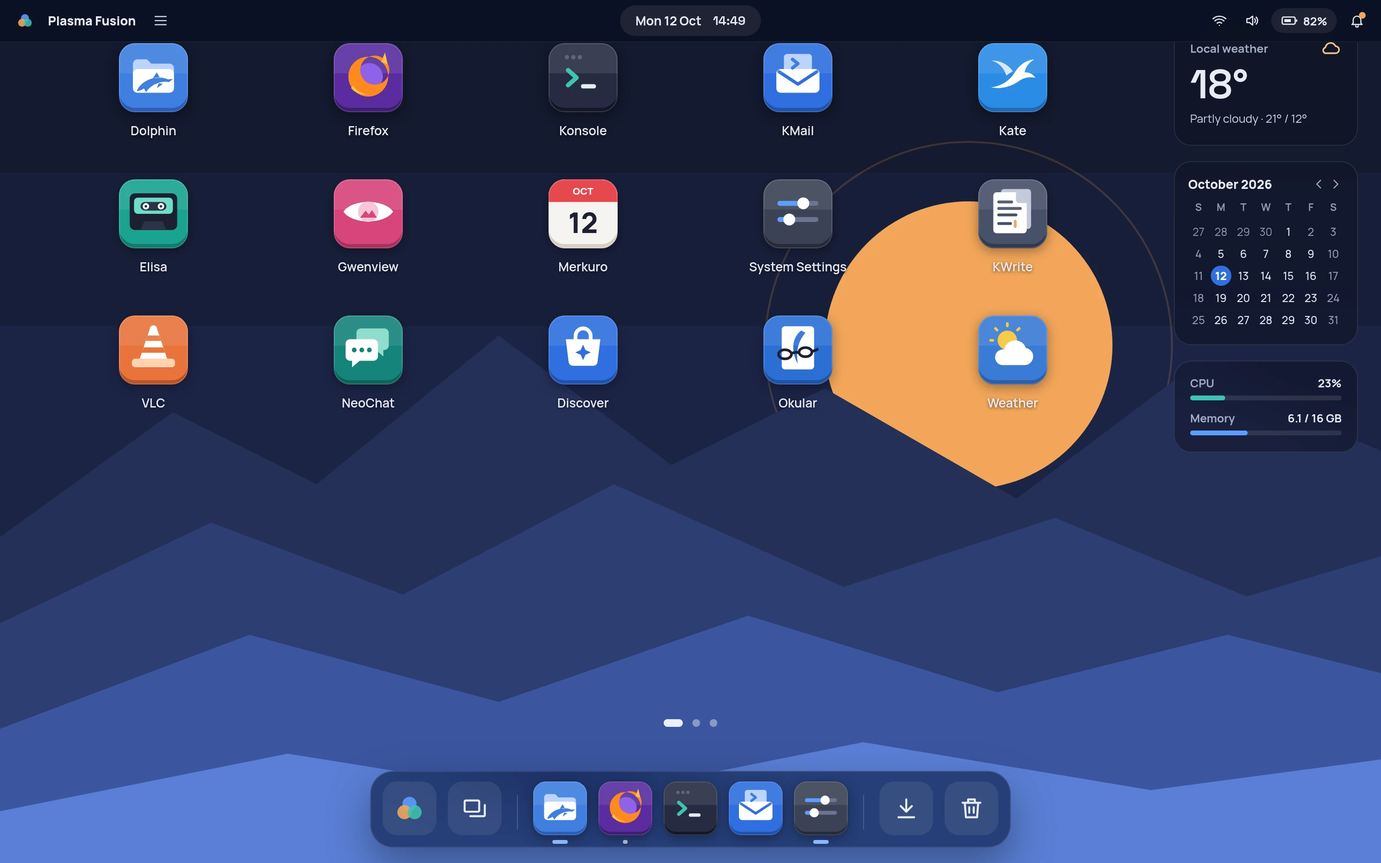
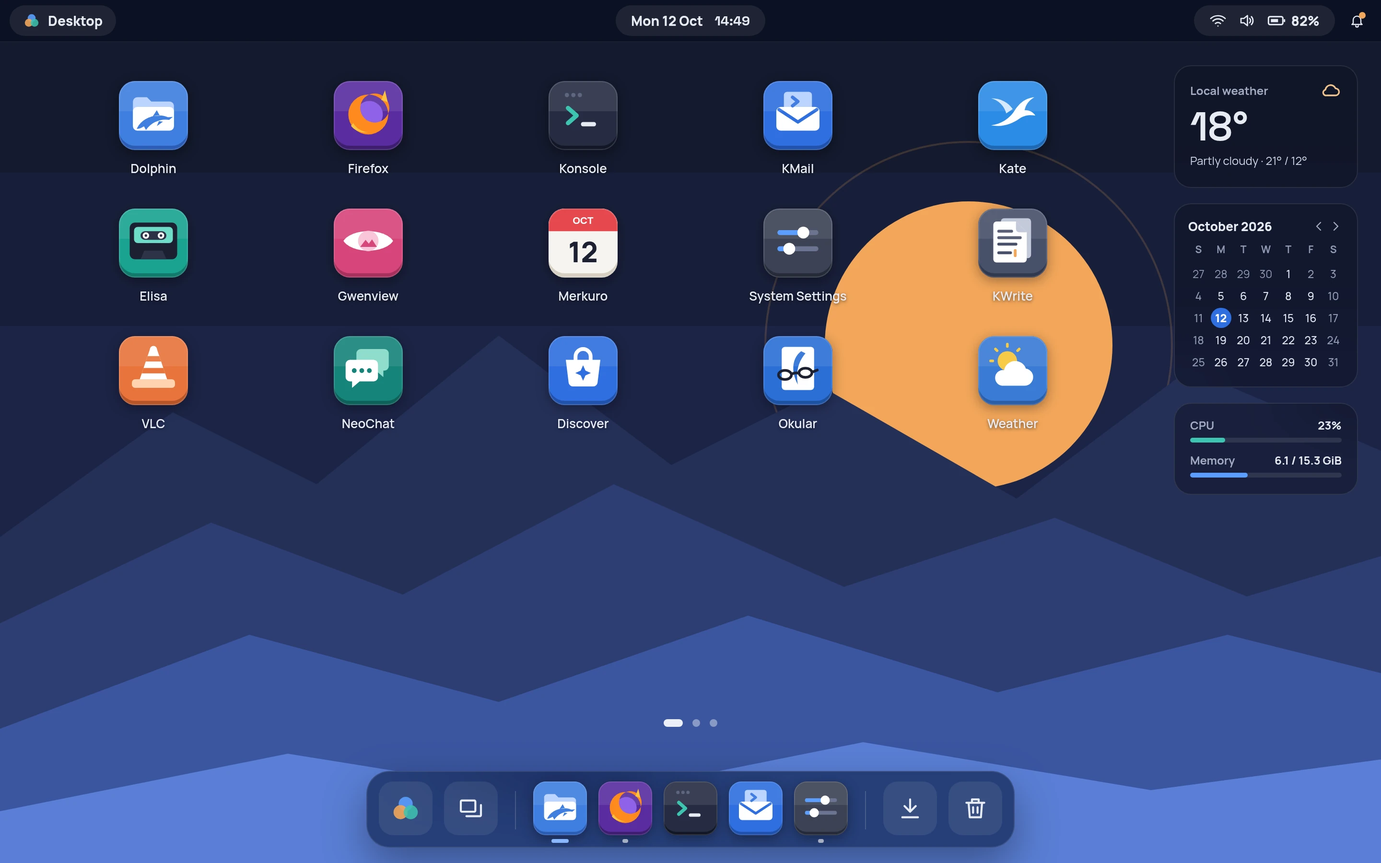
Design: the tablet home's bar, dock and cards follow the implementation
The top bar: one 32 px appname pill (mark 18, the 14 px ExtraBold name,
no separate menu button) at the left, the 14 px/800 clock labels, and
network, volume and battery grouped in one 32 px status pill (18/18/20 px
glyphs, 14 px percent, gap 12), with the bell beside it (TABLET 4.3).

The home content sits below the reserved 44 px top bar (the containment
anchors to availableScreenRect), so the grid and the cards start at 68;
with the 856 px content height the rows are floor(668 / 5) = 133.

The dock: 40 px separators with 6 px sides (sepLength 40, sepSlot 13),
18 x 4 active pills and 6 x 4 running dots 4 px below the icon - and only
Dolphin is active, System Settings is running. The system card shows
binary units (6.1 / 15.3 GiB) like the widget.

Previews re-rendered with design/render/render.py.

diff --git a/design/boards/Tablet.dc.html b/design/boards/Tablet.dc.html
@@ -30,7 +30,7 @@ a{color:#8ab8ff}a:hover{color:#b9d4ff}
 </svg>
 
 <!-- Page 1: the pinned apps (the launcher's list), over the wallpaper -->
-<div aria-label="Home screen, page 1" style="position:absolute;left:48px;top:24px;width:1120px;display:grid;grid-template-columns:repeat(5, minmax(0, 1fr));grid-auto-rows:142px;justify-items:center">
+<div aria-label="Home screen, page 1" style="position:absolute;left:48px;top:68px;width:1120px;display:grid;grid-template-columns:repeat(5, minmax(0, 1fr));grid-auto-rows:133px;justify-items:center">
 
 <div style="display:flex;flex-direction:column;align-items:center;justify-content:center;gap:10px;height:100%">
 <button aria-label="Dolphin" class="tile" style="width:72px;height:72px;border-radius:19px"><svg xmlns="http://www.w3.org/2000/svg" width="72" height="72" viewBox="0 0 64 64"><path d="M15 0h34a15 15 0 0 1 15 15v34a15 15 0 0 1 -15 15h-34a15 15 0 0 1 -15 -15v-34a15 15 0 0 1 15 -15z" fill="#2b5db5"/><path d="M15 0h34a15 15 0 0 1 15 15v30a15 15 0 0 1 -15 15h-34a15 15 0 0 1 -15 -15v-30a15 15 0 0 1 15 -15z" fill="#3f7fe0"/><path d="M15 0h34a15 15 0 0 1 15 15v13H0V15A15 15 0 0 1 15 0z" fill="#ffffff" fill-opacity="0.09"/><path d="M13 19a4 4 0 0 1 4-4h9l4 4h17a4 4 0 0 1 4 4v19H13z" fill="#bcd4ff"/><path fill-rule="evenodd" d="M17 24h30a4 4 0 0 1 4 4v14a4 4 0 0 1 -4 4h-30a4 4 0 0 1 -4 -4v-14a4 4 0 0 1 4 -4z" fill="#ffffff"/><path fill-rule="evenodd" d="M16.5 44.5c3-7 10-11.5 18.5-12.5 4-.4 7.5.3 10.5 1.6l4.5-.4-3.4 2.8c-4.4-.7-9 0-13 2-3.6 1.8-6.5 4.4-8.5 7.4l-1.9-3.4c-2.4 1.5-4.6 2.3-6.7 2.5zM31.5 32.6l3.6-5.6 2.8 5.1zM37 37.2l-1.8 4.6 5.6-4.1z" fill="#3f7fe0"/><path d="M16.5 44.5c3-7 10-11.5 18.5-12.5 4-.4 7.5.3 10.5 1.6l4.5-.4-3.4 2.8c-4.4-.7-9 0-13 2-3.6 1.8-6.5 4.4-8.5 7.4l-1.9-3.4c-2.4 1.5-4.6 2.3-6.7 2.5zM31.5 32.6l3.6-5.6 2.8 5.1zM37 37.2l-1.8 4.6 5.6-4.1z" fill="url(#pf-sheen)" fill-rule="evenodd"/><path d="M15 0.5h34a14.5 14.5 0 0 1 14.5 14.5v34a14.5 14.5 0 0 1 -14.5 14.5h-34a14.5 14.5 0 0 1 -14.5 -14.5v-34a14.5 14.5 0 0 1 14.5 -14.5z" fill="none" stroke="#ffffff" stroke-opacity="0.14" stroke-width="1" stroke-linecap="butt" stroke-linejoin="miter"/></svg></button>
@@ -109,7 +109,7 @@ a{color:#8ab8ff}a:hover{color:#b9d4ff}
 
 </div>
 <!-- The cards on page 1 (the containment's widgets), in the columns the grid leaves -->
-<div style="position:absolute;left:1224px;top:24px;width:192px;display:flex;flex-direction:column;gap:16px">
+<div style="position:absolute;left:1224px;top:68px;width:192px;display:flex;flex-direction:column;gap:16px">
 <div aria-label="Weather widget" style="height:128px;box-sizing:border-box;padding:14px 16px;border-radius:18px;background:rgba(14,18,34,0.52);backdrop-filter:blur(24px);-webkit-backdrop-filter:blur(24px);border:1px solid rgba(255,255,255,0.1);display:flex;flex-direction:column;gap:6px">
 <div style="display:flex;align-items:center;justify-content:space-between">
 <span style="font-size:12px;font-weight:700;color:#a3abc2">Local weather</span>
@@ -145,7 +145,7 @@ a{color:#8ab8ff}a:hover{color:#b9d4ff}
 <div style="height:5px;border-radius:3px;background:rgba(255,255,255,0.1)"><div style="width:23%;height:5px;border-radius:3px;background:#3cc4b0"></div></div>
 </div>
 <div style="display:flex;flex-direction:column;gap:5px">
-<div style="display:flex;justify-content:space-between;font-size:12px"><span style="color:#a3abc2;font-weight:700">Memory</span><span style="font-weight:700">6.1 / 16 GB</span></div>
+<div style="display:flex;justify-content:space-between;font-size:12px"><span style="color:#a3abc2;font-weight:700">Memory</span><span style="font-weight:700">6.1 / 15.3 GiB</span></div>
 <div style="height:5px;border-radius:3px;background:rgba(255,255,255,0.1)"><div style="width:38%;height:5px;border-radius:3px;background:#5b9dff"></div></div>
 </div>
 </div>
@@ -153,21 +153,22 @@ a{color:#8ab8ff}a:hover{color:#b9d4ff}
 
 <!-- Top bar (tablet): avatar, app name and menu; clock; status -->
 <header style="position:absolute;left:0;top:0;width:1440px;height:44px;box-sizing:border-box;padding:0 10px;display:flex;align-items:center;justify-content:space-between;background:rgba(9,12,24,0.58);backdrop-filter:blur(24px) saturate(1.3);-webkit-backdrop-filter:blur(24px) saturate(1.3);border-bottom:1px solid rgba(255,255,255,0.06);font-size:13px">
-<div style="width:470px;display:flex;align-items:center;gap:2px">
-<button aria-label="User" style="width:32px;height:26px;border-radius:8px;display:flex;align-items:center;justify-content:center">
+<div style="width:470px;display:flex;align-items:center">
+<div aria-label="Desktop" style="display:flex;align-items:center;gap:8px;height:32px;padding:0 14px;border-radius:16px;background:rgba(255,255,255,0.08)">
 <svg width="18" height="18" viewBox="0 0 24 24" aria-hidden="true"><circle cx="12" cy="8.5" r="5.5" fill="#5b9dff" fill-opacity="0.9"></circle><circle cx="8" cy="15" r="5.5" fill="#f2a65a" fill-opacity="0.9"></circle><circle cx="16" cy="15" r="5.5" fill="#3cc4b0" fill-opacity="0.85"></circle></svg>
-</button>
-<span style="padding:0 10px 0 6px;font-weight:800">Plasma Fusion</span>
-<button aria-label="Menu" style="width:28px;height:26px;border-radius:8px;display:flex;align-items:center;justify-content:center;color:#cdd3e4"><svg class="i" width="17" height="17" viewBox="0 0 24 24"><path d="M4 6h16M4 12h16M4 18h16"></path></svg></button>
+<span style="font-size:14px;font-weight:800">Desktop</span>
+</div>
 </div>
 <div style="display:flex;align-items:center;gap:12px;height:32px;padding:0 16px;border-radius:16px;background:rgba(255,255,255,0.08)">
-<span style="font-weight:700">Mon 12 Oct</span>
-<span style="font-family:'Space Grotesk',sans-serif;font-weight:600">14:49</span>
+<span style="font-size:14px;font-weight:800">Mon 12 Oct</span>
+<span style="font-family:'Space Grotesk',sans-serif;font-size:14px;font-weight:800">14:49</span>
 </div>
-<div style="width:470px;display:flex;align-items:center;justify-content:flex-end;gap:6px;color:#e8ebf4">
-<button aria-label="Network connected" style="width:28px;height:26px;display:flex;align-items:center;justify-content:center"><svg class="i" width="16" height="16" viewBox="0 0 24 24"><path d="M2 9a15 15 0 0 1 20 0M5 12.5a10 10 0 0 1 14 0M8.5 16a5 5 0 0 1 7 0M12 19.5h.01"></path></svg></button>
-<button aria-label="Brightness" style="width:28px;height:26px;display:flex;align-items:center;justify-content:center"><svg class="i" width="16" height="16" viewBox="0 0 24 24"><path d="M4 9h4l5-4v14l-5-4H4zM16 9a4 4 0 0 1 0 6M18.5 6.5a8 8 0 0 1 0 11"></path></svg></button>
-<button aria-label="Battery at 82%" style="display:flex;align-items:center;gap:5px;height:26px;padding:0 10px;border-radius:13px;background:rgba(255,255,255,0.08)"><svg class="i" width="18" height="18" viewBox="0 0 24 24"><path d="M4 7h14a2 2 0 0 1 2 2v6a2 2 0 0 1-2 2H4a2 2 0 0 1-2-2V9a2 2 0 0 1 2-2zM22 11v2"></path><path d="M5 10h9v4H5z" style="fill:currentColor;stroke:none"></path></svg><span style="font-size:12px;font-weight:700">82%</span></button>
+<div style="width:470px;display:flex;align-items:center;justify-content:flex-end;gap:8px;color:#e8ebf4">
+<div aria-label="System status" style="display:flex;align-items:center;gap:12px;height:32px;padding:0 16px;border-radius:16px;background:rgba(255,255,255,0.08)">
+<svg class="i" width="18" height="18" viewBox="0 0 24 24"><path d="M2 9a15 15 0 0 1 20 0M5 12.5a10 10 0 0 1 14 0M8.5 16a5 5 0 0 1 7 0M12 19.5h.01"></path></svg>
+<svg class="i" width="18" height="18" viewBox="0 0 24 24"><path d="M4 9h4l5-4v14l-5-4H4zM16 9a4 4 0 0 1 0 6M18.5 6.5a8 8 0 0 1 0 11"></path></svg>
+<span style="display:flex;align-items:center;gap:5px"><svg class="i" width="20" height="20" viewBox="0 0 24 24"><path d="M4 7h14a2 2 0 0 1 2 2v6a2 2 0 0 1-2 2H4a2 2 0 0 1-2-2V9a2 2 0 0 1 2-2zM22 11v2"></path><path d="M5 10h9v4H5z" style="fill:currentColor;stroke:none"></path></svg><span style="font-size:14px;font-weight:800">82%</span></span>
+</div>
 <button aria-label="Notifications, 2 unread" style="width:30px;height:26px;border-radius:13px;display:flex;align-items:center;justify-content:center;position:relative"><svg class="i" width="16" height="16" viewBox="0 0 24 24"><path d="M6 16V11a6 6 0 0 1 12 0v5l2 2H4zM10 20a2 2 0 0 0 4 0"></path></svg><span style="position:absolute;right:6px;top:4px;width:7px;height:7px;border-radius:4px;background:#f2a65a"></span></button>
 </div>
 </header>
@@ -185,14 +186,14 @@ a{color:#8ab8ff}a:hover{color:#b9d4ff}
 <svg width="32" height="32" viewBox="0 0 24 24" aria-hidden="true"><circle cx="12" cy="8.5" r="5.5" fill="#5b9dff" fill-opacity="0.9"></circle><circle cx="8" cy="15" r="5.5" fill="#f2a65a" fill-opacity="0.9"></circle><circle cx="16" cy="15" r="5.5" fill="#3cc4b0" fill-opacity="0.85"></circle></svg>
 </button>
 <button aria-label="Overview" style="width:56px;height:56px;border-radius:15px;display:flex;align-items:center;justify-content:center;background:rgba(255,255,255,0.08);color:#e8ebf4"><svg class="i" width="28" height="28" viewBox="0 0 24 24"><path d="M4 5h11a1 1 0 0 1 1 1v8a1 1 0 0 1-1 1H4a1 1 0 0 1-1-1V6a1 1 0 0 1 1-1zM8 19h12a1 1 0 0 0 1-1V9"></path></svg></button>
-<span style="width:1px;height:36px;margin:0 4px 6px;background:rgba(255,255,255,0.16)"></span>
+<span style="width:1px;height:40px;margin:0 6px 6px;background:rgba(255,255,255,0.16)"></span>
 <div style="position:relative;display:flex;flex-direction:column;align-items:center">
 <button aria-label="Dolphin" style="display:block;width:56px;height:56px;filter:drop-shadow(0 3px 6px rgba(0,0,0,0.35))"><svg xmlns="http://www.w3.org/2000/svg" width="56" height="56" viewBox="0 0 64 64"><defs><linearGradient id="pf-sheen" gradientUnits="userSpaceOnUse" x1="0" y1="0" x2="0" y2="64"><stop offset="0" stop-color="#ffffff" stop-opacity="0.09"/><stop offset="0.4375" stop-color="#ffffff" stop-opacity="0.09"/><stop offset="0.4375" stop-color="#ffffff" stop-opacity="0"/></linearGradient></defs><path d="M15 0h34a15 15 0 0 1 15 15v34a15 15 0 0 1 -15 15h-34a15 15 0 0 1 -15 -15v-34a15 15 0 0 1 15 -15z" fill="#2b5db5"/><path d="M15 0h34a15 15 0 0 1 15 15v30a15 15 0 0 1 -15 15h-34a15 15 0 0 1 -15 -15v-30a15 15 0 0 1 15 -15z" fill="#3f7fe0"/><path d="M15 0h34a15 15 0 0 1 15 15v13H0V15A15 15 0 0 1 15 0z" fill="#ffffff" fill-opacity="0.09"/><path d="M13 19a4 4 0 0 1 4-4h9l4 4h17a4 4 0 0 1 4 4v19H13z" fill="#bcd4ff"/><path fill-rule="evenodd" d="M17 24h30a4 4 0 0 1 4 4v14a4 4 0 0 1 -4 4h-30a4 4 0 0 1 -4 -4v-14a4 4 0 0 1 4 -4z" fill="#ffffff"/><path fill-rule="evenodd" d="M16.5 44.5c3-7 10-11.5 18.5-12.5 4-.4 7.5.3 10.5 1.6l4.5-.4-3.4 2.8c-4.4-.7-9 0-13 2-3.6 1.8-6.5 4.4-8.5 7.4l-1.9-3.4c-2.4 1.5-4.6 2.3-6.7 2.5zM31.5 32.6l3.6-5.6 2.8 5.1zM37 37.2l-1.8 4.6 5.6-4.1z" fill="#3f7fe0"/><path d="M16.5 44.5c3-7 10-11.5 18.5-12.5 4-.4 7.5.3 10.5 1.6l4.5-.4-3.4 2.8c-4.4-.7-9 0-13 2-3.6 1.8-6.5 4.4-8.5 7.4l-1.9-3.4c-2.4 1.5-4.6 2.3-6.7 2.5zM31.5 32.6l3.6-5.6 2.8 5.1zM37 37.2l-1.8 4.6 5.6-4.1z" fill="url(#pf-sheen)" fill-rule="evenodd"/><path d="M15 0.5h34a14.5 14.5 0 0 1 14.5 14.5v34a14.5 14.5 0 0 1 -14.5 14.5h-34a14.5 14.5 0 0 1 -14.5 -14.5v-34a14.5 14.5 0 0 1 14.5 -14.5z" fill="none" stroke="#ffffff" stroke-opacity="0.14" stroke-width="1" stroke-linecap="butt" stroke-linejoin="miter"/></svg></button>
-<span style="position:absolute;bottom:-9px;height:4px;border-radius:2px;width:16px;background:#8ab8ff"></span>
+<span style="position:absolute;bottom:-8px;height:4px;border-radius:2px;width:18px;background:#8ab8ff"></span>
 </div>
 <div style="position:relative;display:flex;flex-direction:column;align-items:center">
 <button aria-label="Firefox" style="display:block;width:56px;height:56px;filter:drop-shadow(0 3px 6px rgba(0,0,0,0.35))"><svg xmlns="http://www.w3.org/2000/svg" width="56" height="56" viewBox="0 0 64 64"><path d="M15 0h34a15 15 0 0 1 15 15v34a15 15 0 0 1 -15 15h-34a15 15 0 0 1 -15 -15v-34a15 15 0 0 1 15 -15z" fill="#3e1e70"/><path d="M15 0h34a15 15 0 0 1 15 15v30a15 15 0 0 1 -15 15h-34a15 15 0 0 1 -15 -15v-30a15 15 0 0 1 15 -15z" fill="#5a2ca0"/><path d="M15 0h34a15 15 0 0 1 15 15v13H0V15A15 15 0 0 1 15 0z" fill="#ffffff" fill-opacity="0.09"/><path d="M20.5 31a12.5 12.5 0 1 0 25 0a12.5 12.5 0 1 0 -25 0z" fill="#8f63e8"/><path fill-rule="evenodd" d="M13.5 31a18.5 18.5 0 1 0 37 0a18.5 18.5 0 1 0 -37 0zM24.5 25a13.5 13.5 0 1 0 27 0a13.5 13.5 0 1 0 -27 0z" fill="#ff8a1f"/><path fill-rule="evenodd" d="M44 17.5l3.5-9 2.5 11zM18 39c3 5 8 8 14 8.5-7 1-13-2-16-6z" fill="#ffc23d"/><path d="M15 0.5h34a14.5 14.5 0 0 1 14.5 14.5v34a14.5 14.5 0 0 1 -14.5 14.5h-34a14.5 14.5 0 0 1 -14.5 -14.5v-34a14.5 14.5 0 0 1 14.5 -14.5z" fill="none" stroke="#ffffff" stroke-opacity="0.14" stroke-width="1" stroke-linecap="butt" stroke-linejoin="miter"/></svg></button>
-<span style="position:absolute;bottom:-9px;height:4px;border-radius:2px;width:5px;background:rgba(255,255,255,0.6)"></span>
+<span style="position:absolute;bottom:-8px;height:4px;border-radius:2px;width:6px;background:rgba(255,255,255,0.6)"></span>
 </div>
 <div style="position:relative;display:flex;flex-direction:column;align-items:center">
 <button aria-label="Konsole" style="display:block;width:56px;height:56px;filter:drop-shadow(0 3px 6px rgba(0,0,0,0.35))"><svg xmlns="http://www.w3.org/2000/svg" width="56" height="56" viewBox="0 0 64 64"><path d="M15 0h34a15 15 0 0 1 15 15v34a15 15 0 0 1 -15 15h-34a15 15 0 0 1 -15 -15v-34a15 15 0 0 1 15 -15z" fill="#131726"/><path d="M15 0h34a15 15 0 0 1 15 15v30a15 15 0 0 1 -15 15h-34a15 15 0 0 1 -15 -15v-30a15 15 0 0 1 15 -15z" fill="#262c42"/><path d="M15 0h34a15 15 0 0 1 15 15v13H0V15A15 15 0 0 1 15 0z" fill="#ffffff" fill-opacity="0.09"/><path d="M32 38h10a2 2 0 0 1 2 2v0a2 2 0 0 1 -2 2h-10a2 2 0 0 1 -2 -2v0a2 2 0 0 1 2 -2z" fill="#e8ebf4"/><path fill-rule="evenodd" d="M15 13a2 2 0 1 0 4 0a2 2 0 1 0 -4 0zM21 13a2 2 0 1 0 4 0a2 2 0 1 0 -4 0zM27 13a2 2 0 1 0 4 0a2 2 0 1 0 -4 0z" fill="#5d6680"/><path d="M18 25l8 7-8 7" fill="none" stroke="#3cc4b0" stroke-width="4" stroke-linecap="round" stroke-linejoin="round"/><path d="M15 0.5h34a14.5 14.5 0 0 1 14.5 14.5v34a14.5 14.5 0 0 1 -14.5 14.5h-34a14.5 14.5 0 0 1 -14.5 -14.5v-34a14.5 14.5 0 0 1 14.5 -14.5z" fill="none" stroke="#ffffff" stroke-opacity="0.14" stroke-width="1" stroke-linecap="butt" stroke-linejoin="miter"/></svg></button>
@@ -202,9 +203,9 @@ a{color:#8ab8ff}a:hover{color:#b9d4ff}
 </div>
 <div style="position:relative;display:flex;flex-direction:column;align-items:center">
 <button aria-label="System Settings" style="display:block;width:56px;height:56px;filter:drop-shadow(0 3px 6px rgba(0,0,0,0.35))"><svg xmlns="http://www.w3.org/2000/svg" width="56" height="56" viewBox="0 0 64 64"><path d="M15 0h34a15 15 0 0 1 15 15v34a15 15 0 0 1 -15 15h-34a15 15 0 0 1 -15 -15v-34a15 15 0 0 1 15 -15z" fill="#262b38"/><path d="M15 0h34a15 15 0 0 1 15 15v30a15 15 0 0 1 -15 15h-34a15 15 0 0 1 -15 -15v-30a15 15 0 0 1 15 -15z" fill="#3b4255"/><path d="M15 0h34a15 15 0 0 1 15 15v13H0V15A15 15 0 0 1 15 0z" fill="#ffffff" fill-opacity="0.09"/><path d="M15.25 20h33.5a2.25 2.25 0 0 1 2.25 2.25v0a2.25 2.25 0 0 1 -2.25 2.25h-33.5a2.25 2.25 0 0 1 -2.25 -2.25v0a2.25 2.25 0 0 1 2.25 -2.25zM15.25 35h33.5a2.25 2.25 0 0 1 2.25 2.25v0a2.25 2.25 0 0 1 -2.25 2.25h-33.5a2.25 2.25 0 0 1 -2.25 -2.25v0a2.25 2.25 0 0 1 2.25 -2.25z" fill="#6b7490"/><path fill-rule="evenodd" d="M15.25 20h19.5a2.25 2.25 0 0 1 2.25 2.25v0a2.25 2.25 0 0 1 -2.25 2.25h-19.5a2.25 2.25 0 0 1 -2.25 -2.25v0a2.25 2.25 0 0 1 2.25 -2.25zM15.25 35h6.5a2.25 2.25 0 0 1 2.25 2.25v0a2.25 2.25 0 0 1 -2.25 2.25h-6.5a2.25 2.25 0 0 1 -2.25 -2.25v0a2.25 2.25 0 0 1 2.25 -2.25z" fill="#5b9dff"/><path fill-rule="evenodd" d="M31.5 22.25a5.5 5.5 0 1 0 11 0a5.5 5.5 0 1 0 -11 0zM18.5 37.25a5.5 5.5 0 1 0 11 0a5.5 5.5 0 1 0 -11 0z" fill="#ffffff"/><path d="M15 0.5h34a14.5 14.5 0 0 1 14.5 14.5v34a14.5 14.5 0 0 1 -14.5 14.5h-34a14.5 14.5 0 0 1 -14.5 -14.5v-34a14.5 14.5 0 0 1 14.5 -14.5z" fill="none" stroke="#ffffff" stroke-opacity="0.14" stroke-width="1" stroke-linecap="butt" stroke-linejoin="miter"/></svg></button>
-<span style="position:absolute;bottom:-9px;height:4px;border-radius:2px;width:16px;background:#8ab8ff"></span>
+<span style="position:absolute;bottom:-8px;height:4px;border-radius:2px;width:6px;background:rgba(255,255,255,0.6)"></span>
 </div>
-<span style="width:1px;height:36px;margin:0 4px 6px;background:rgba(255,255,255,0.16)"></span>
+<span style="width:1px;height:40px;margin:0 6px 6px;background:rgba(255,255,255,0.16)"></span>
 <button aria-label="Downloads" style="width:56px;height:56px;border-radius:15px;background:rgba(255,255,255,0.08);color:#e8ebf4;display:flex;align-items:center;justify-content:center"><svg class="i" width="28" height="28" viewBox="0 0 24 24"><path d="M12 4v11M7 10l5 5 5-5M5 20h14"></path></svg></button>
 <button aria-label="Trash" style="width:56px;height:56px;border-radius:15px;background:rgba(255,255,255,0.08);color:#e8ebf4;display:flex;align-items:center;justify-content:center"><svg class="i" width="28" height="28" viewBox="0 0 24 24"><path d="M4 7h16M9 7V4h6v3M6 7l1 13h10l1-13M10 11v5M14 11v5"></path></svg></button>
 </nav>

diff --git a/design/boards/TabletLight.dc.html b/design/boards/TabletLight.dc.html
@@ -30,7 +30,7 @@ a{color:#2f6fdf}a:hover{color:#2359c4}
 </svg>
 
 <!-- Page 1: the pinned apps (the launcher's list), over the wallpaper -->
-<div aria-label="Home screen, page 1" style="position:absolute;left:48px;top:24px;width:1120px;display:grid;grid-template-columns:repeat(5, minmax(0, 1fr));grid-auto-rows:142px;justify-items:center">
+<div aria-label="Home screen, page 1" style="position:absolute;left:48px;top:68px;width:1120px;display:grid;grid-template-columns:repeat(5, minmax(0, 1fr));grid-auto-rows:133px;justify-items:center">
 
 <div style="display:flex;flex-direction:column;align-items:center;justify-content:center;gap:10px;height:100%">
 <button aria-label="Dolphin" class="tile" style="width:72px;height:72px;border-radius:19px"><svg xmlns="http://www.w3.org/2000/svg" width="72" height="72" viewBox="0 0 64 64"><path d="M15 0h34a15 15 0 0 1 15 15v34a15 15 0 0 1 -15 15h-34a15 15 0 0 1 -15 -15v-34a15 15 0 0 1 15 -15z" fill="#2b5db5"/><path d="M15 0h34a15 15 0 0 1 15 15v30a15 15 0 0 1 -15 15h-34a15 15 0 0 1 -15 -15v-30a15 15 0 0 1 15 -15z" fill="#3f7fe0"/><path d="M15 0h34a15 15 0 0 1 15 15v13H0V15A15 15 0 0 1 15 0z" fill="#ffffff" fill-opacity="0.09"/><path d="M13 19a4 4 0 0 1 4-4h9l4 4h17a4 4 0 0 1 4 4v19H13z" fill="#bcd4ff"/><path fill-rule="evenodd" d="M17 24h30a4 4 0 0 1 4 4v14a4 4 0 0 1 -4 4h-30a4 4 0 0 1 -4 -4v-14a4 4 0 0 1 4 -4z" fill="#ffffff"/><path fill-rule="evenodd" d="M16.5 44.5c3-7 10-11.5 18.5-12.5 4-.4 7.5.3 10.5 1.6l4.5-.4-3.4 2.8c-4.4-.7-9 0-13 2-3.6 1.8-6.5 4.4-8.5 7.4l-1.9-3.4c-2.4 1.5-4.6 2.3-6.7 2.5zM31.5 32.6l3.6-5.6 2.8 5.1zM37 37.2l-1.8 4.6 5.6-4.1z" fill="#3f7fe0"/><path d="M16.5 44.5c3-7 10-11.5 18.5-12.5 4-.4 7.5.3 10.5 1.6l4.5-.4-3.4 2.8c-4.4-.7-9 0-13 2-3.6 1.8-6.5 4.4-8.5 7.4l-1.9-3.4c-2.4 1.5-4.6 2.3-6.7 2.5zM31.5 32.6l3.6-5.6 2.8 5.1zM37 37.2l-1.8 4.6 5.6-4.1z" fill="url(#pf-sheen)" fill-rule="evenodd"/><path d="M15 0.5h34a14.5 14.5 0 0 1 14.5 14.5v34a14.5 14.5 0 0 1 -14.5 14.5h-34a14.5 14.5 0 0 1 -14.5 -14.5v-34a14.5 14.5 0 0 1 14.5 -14.5z" fill="none" stroke="#ffffff" stroke-opacity="0.14" stroke-width="1" stroke-linecap="butt" stroke-linejoin="miter"/></svg></button>
@@ -109,7 +109,7 @@ a{color:#2f6fdf}a:hover{color:#2359c4}
 
 </div>
 <!-- The cards on page 1 (the containment's widgets), in the columns the grid leaves -->
-<div style="position:absolute;left:1224px;top:24px;width:192px;display:flex;flex-direction:column;gap:16px">
+<div style="position:absolute;left:1224px;top:68px;width:192px;display:flex;flex-direction:column;gap:16px">
 <div aria-label="Weather widget" style="height:128px;box-sizing:border-box;padding:14px 16px;border-radius:18px;background:rgba(255,255,255,0.62);backdrop-filter:blur(24px);-webkit-backdrop-filter:blur(24px);border:1px solid rgba(20,24,39,0.1);display:flex;flex-direction:column;gap:6px">
 <div style="display:flex;align-items:center;justify-content:space-between">
 <span style="font-size:12px;font-weight:700;color:#5b6278">Local weather</span>
@@ -145,7 +145,7 @@ a{color:#2f6fdf}a:hover{color:#2359c4}
 <div style="height:5px;border-radius:3px;background:rgba(20,24,39,0.1)"><div style="width:23%;height:5px;border-radius:3px;background:#3cc4b0"></div></div>
 </div>
 <div style="display:flex;flex-direction:column;gap:5px">
-<div style="display:flex;justify-content:space-between;font-size:12px"><span style="color:#5b6278;font-weight:700">Memory</span><span style="font-weight:700">6.1 / 16 GB</span></div>
+<div style="display:flex;justify-content:space-between;font-size:12px"><span style="color:#5b6278;font-weight:700">Memory</span><span style="font-weight:700">6.1 / 15.3 GiB</span></div>
 <div style="height:5px;border-radius:3px;background:rgba(20,24,39,0.1)"><div style="width:38%;height:5px;border-radius:3px;background:#5b9dff"></div></div>
 </div>
 </div>
@@ -153,21 +153,22 @@ a{color:#2f6fdf}a:hover{color:#2359c4}
 
 <!-- Top bar (tablet): avatar, app name and menu; clock; status -->
 <header style="position:absolute;left:0;top:0;width:1440px;height:44px;box-sizing:border-box;padding:0 10px;display:flex;align-items:center;justify-content:space-between;background:rgba(250,251,255,0.74);backdrop-filter:blur(24px) saturate(1.3);-webkit-backdrop-filter:blur(24px) saturate(1.3);border-bottom:1px solid rgba(20,24,39,0.06);font-size:13px">
-<div style="width:470px;display:flex;align-items:center;gap:2px">
-<button aria-label="User" style="width:32px;height:26px;border-radius:8px;display:flex;align-items:center;justify-content:center">
+<div style="width:470px;display:flex;align-items:center">
+<div aria-label="Desktop" style="display:flex;align-items:center;gap:8px;height:32px;padding:0 14px;border-radius:16px;background:rgba(20,24,39,0.08)">
 <svg width="18" height="18" viewBox="0 0 24 24" aria-hidden="true"><circle cx="12" cy="8.5" r="5.5" fill="#5b9dff" fill-opacity="0.9"></circle><circle cx="8" cy="15" r="5.5" fill="#f2a65a" fill-opacity="0.9"></circle><circle cx="16" cy="15" r="5.5" fill="#3cc4b0" fill-opacity="0.85"></circle></svg>
-</button>
-<span style="padding:0 10px 0 6px;font-weight:800">Plasma Fusion</span>
-<button aria-label="Menu" style="width:28px;height:26px;border-radius:8px;display:flex;align-items:center;justify-content:center;color:#3a4157"><svg class="i" width="17" height="17" viewBox="0 0 24 24"><path d="M4 6h16M4 12h16M4 18h16"></path></svg></button>
+<span style="font-size:14px;font-weight:800">Desktop</span>
+</div>
 </div>
 <div style="display:flex;align-items:center;gap:12px;height:32px;padding:0 16px;border-radius:16px;background:rgba(20,24,39,0.08)">
-<span style="font-weight:700">Mon 12 Oct</span>
-<span style="font-family:'Space Grotesk',sans-serif;font-weight:600">14:49</span>
+<span style="font-size:14px;font-weight:800">Mon 12 Oct</span>
+<span style="font-family:'Space Grotesk',sans-serif;font-size:14px;font-weight:800">14:49</span>
 </div>
-<div style="width:470px;display:flex;align-items:center;justify-content:flex-end;gap:6px;color:#28304a">
-<button aria-label="Network connected" style="width:28px;height:26px;display:flex;align-items:center;justify-content:center"><svg class="i" width="16" height="16" viewBox="0 0 24 24"><path d="M2 9a15 15 0 0 1 20 0M5 12.5a10 10 0 0 1 14 0M8.5 16a5 5 0 0 1 7 0M12 19.5h.01"></path></svg></button>
-<button aria-label="Brightness" style="width:28px;height:26px;display:flex;align-items:center;justify-content:center"><svg class="i" width="16" height="16" viewBox="0 0 24 24"><path d="M4 9h4l5-4v14l-5-4H4zM16 9a4 4 0 0 1 0 6M18.5 6.5a8 8 0 0 1 0 11"></path></svg></button>
-<button aria-label="Battery at 82%" style="display:flex;align-items:center;gap:5px;height:26px;padding:0 10px;border-radius:13px;background:rgba(20,24,39,0.08)"><svg class="i" width="18" height="18" viewBox="0 0 24 24"><path d="M4 7h14a2 2 0 0 1 2 2v6a2 2 0 0 1-2 2H4a2 2 0 0 1-2-2V9a2 2 0 0 1 2-2zM22 11v2"></path><path d="M5 10h9v4H5z" style="fill:currentColor;stroke:none"></path></svg><span style="font-size:12px;font-weight:700">82%</span></button>
+<div style="width:470px;display:flex;align-items:center;justify-content:flex-end;gap:8px;color:#28304a">
+<div aria-label="System status" style="display:flex;align-items:center;gap:12px;height:32px;padding:0 16px;border-radius:16px;background:rgba(20,24,39,0.08)">
+<svg class="i" width="18" height="18" viewBox="0 0 24 24"><path d="M2 9a15 15 0 0 1 20 0M5 12.5a10 10 0 0 1 14 0M8.5 16a5 5 0 0 1 7 0M12 19.5h.01"></path></svg>
+<svg class="i" width="18" height="18" viewBox="0 0 24 24"><path d="M4 9h4l5-4v14l-5-4H4zM16 9a4 4 0 0 1 0 6M18.5 6.5a8 8 0 0 1 0 11"></path></svg>
+<span style="display:flex;align-items:center;gap:5px"><svg class="i" width="20" height="20" viewBox="0 0 24 24"><path d="M4 7h14a2 2 0 0 1 2 2v6a2 2 0 0 1-2 2H4a2 2 0 0 1-2-2V9a2 2 0 0 1 2-2zM22 11v2"></path><path d="M5 10h9v4H5z" style="fill:currentColor;stroke:none"></path></svg><span style="font-size:14px;font-weight:800">82%</span></span>
+</div>
 <button aria-label="Notifications, 2 unread" style="width:30px;height:26px;border-radius:13px;display:flex;align-items:center;justify-content:center;position:relative"><svg class="i" width="16" height="16" viewBox="0 0 24 24"><path d="M6 16V11a6 6 0 0 1 12 0v5l2 2H4zM10 20a2 2 0 0 0 4 0"></path></svg><span style="position:absolute;right:6px;top:4px;width:7px;height:7px;border-radius:4px;background:#f2a65a"></span></button>
 </div>
 </header>
@@ -185,14 +186,14 @@ a{color:#2f6fdf}a:hover{color:#2359c4}
 <svg width="32" height="32" viewBox="0 0 24 24" aria-hidden="true"><circle cx="12" cy="8.5" r="5.5" fill="#5b9dff" fill-opacity="0.9"></circle><circle cx="8" cy="15" r="5.5" fill="#f2a65a" fill-opacity="0.9"></circle><circle cx="16" cy="15" r="5.5" fill="#3cc4b0" fill-opacity="0.85"></circle></svg>
 </button>
 <button aria-label="Overview" style="width:56px;height:56px;border-radius:15px;display:flex;align-items:center;justify-content:center;background:rgba(20,24,39,0.08);color:#28304a"><svg class="i" width="28" height="28" viewBox="0 0 24 24"><path d="M4 5h11a1 1 0 0 1 1 1v8a1 1 0 0 1-1 1H4a1 1 0 0 1-1-1V6a1 1 0 0 1 1-1zM8 19h12a1 1 0 0 0 1-1V9"></path></svg></button>
-<span style="width:1px;height:36px;margin:0 4px 6px;background:rgba(20,24,39,0.16)"></span>
+<span style="width:1px;height:40px;margin:0 6px 6px;background:rgba(20,24,39,0.16)"></span>
 <div style="position:relative;display:flex;flex-direction:column;align-items:center">
 <button aria-label="Dolphin" style="display:block;width:56px;height:56px;filter:drop-shadow(0 3px 6px rgba(0,0,0,0.35))"><svg xmlns="http://www.w3.org/2000/svg" width="56" height="56" viewBox="0 0 64 64"><defs><linearGradient id="pf-sheen" gradientUnits="userSpaceOnUse" x1="0" y1="0" x2="0" y2="64"><stop offset="0" stop-color="#ffffff" stop-opacity="0.09"/><stop offset="0.4375" stop-color="#ffffff" stop-opacity="0.09"/><stop offset="0.4375" stop-color="#ffffff" stop-opacity="0"/></linearGradient></defs><path d="M15 0h34a15 15 0 0 1 15 15v34a15 15 0 0 1 -15 15h-34a15 15 0 0 1 -15 -15v-34a15 15 0 0 1 15 -15z" fill="#2b5db5"/><path d="M15 0h34a15 15 0 0 1 15 15v30a15 15 0 0 1 -15 15h-34a15 15 0 0 1 -15 -15v-30a15 15 0 0 1 15 -15z" fill="#3f7fe0"/><path d="M15 0h34a15 15 0 0 1 15 15v13H0V15A15 15 0 0 1 15 0z" fill="#ffffff" fill-opacity="0.09"/><path d="M13 19a4 4 0 0 1 4-4h9l4 4h17a4 4 0 0 1 4 4v19H13z" fill="#bcd4ff"/><path fill-rule="evenodd" d="M17 24h30a4 4 0 0 1 4 4v14a4 4 0 0 1 -4 4h-30a4 4 0 0 1 -4 -4v-14a4 4 0 0 1 4 -4z" fill="#ffffff"/><path fill-rule="evenodd" d="M16.5 44.5c3-7 10-11.5 18.5-12.5 4-.4 7.5.3 10.5 1.6l4.5-.4-3.4 2.8c-4.4-.7-9 0-13 2-3.6 1.8-6.5 4.4-8.5 7.4l-1.9-3.4c-2.4 1.5-4.6 2.3-6.7 2.5zM31.5 32.6l3.6-5.6 2.8 5.1zM37 37.2l-1.8 4.6 5.6-4.1z" fill="#3f7fe0"/><path d="M16.5 44.5c3-7 10-11.5 18.5-12.5 4-.4 7.5.3 10.5 1.6l4.5-.4-3.4 2.8c-4.4-.7-9 0-13 2-3.6 1.8-6.5 4.4-8.5 7.4l-1.9-3.4c-2.4 1.5-4.6 2.3-6.7 2.5zM31.5 32.6l3.6-5.6 2.8 5.1zM37 37.2l-1.8 4.6 5.6-4.1z" fill="url(#pf-sheen)" fill-rule="evenodd"/><path d="M15 0.5h34a14.5 14.5 0 0 1 14.5 14.5v34a14.5 14.5 0 0 1 -14.5 14.5h-34a14.5 14.5 0 0 1 -14.5 -14.5v-34a14.5 14.5 0 0 1 14.5 -14.5z" fill="none" stroke="#ffffff" stroke-opacity="0.14" stroke-width="1" stroke-linecap="butt" stroke-linejoin="miter"/></svg></button>
-<span style="position:absolute;bottom:-9px;height:4px;border-radius:2px;width:16px;background:#2f6fdf"></span>
+<span style="position:absolute;bottom:-8px;height:4px;border-radius:2px;width:18px;background:#2f6fdf"></span>
 </div>
 <div style="position:relative;display:flex;flex-direction:column;align-items:center">
 <button aria-label="Firefox" style="display:block;width:56px;height:56px;filter:drop-shadow(0 3px 6px rgba(0,0,0,0.35))"><svg xmlns="http://www.w3.org/2000/svg" width="56" height="56" viewBox="0 0 64 64"><path d="M15 0h34a15 15 0 0 1 15 15v34a15 15 0 0 1 -15 15h-34a15 15 0 0 1 -15 -15v-34a15 15 0 0 1 15 -15z" fill="#3e1e70"/><path d="M15 0h34a15 15 0 0 1 15 15v30a15 15 0 0 1 -15 15h-34a15 15 0 0 1 -15 -15v-30a15 15 0 0 1 15 -15z" fill="#5a2ca0"/><path d="M15 0h34a15 15 0 0 1 15 15v13H0V15A15 15 0 0 1 15 0z" fill="#ffffff" fill-opacity="0.09"/><path d="M20.5 31a12.5 12.5 0 1 0 25 0a12.5 12.5 0 1 0 -25 0z" fill="#8f63e8"/><path fill-rule="evenodd" d="M13.5 31a18.5 18.5 0 1 0 37 0a18.5 18.5 0 1 0 -37 0zM24.5 25a13.5 13.5 0 1 0 27 0a13.5 13.5 0 1 0 -27 0z" fill="#ff8a1f"/><path fill-rule="evenodd" d="M44 17.5l3.5-9 2.5 11zM18 39c3 5 8 8 14 8.5-7 1-13-2-16-6z" fill="#ffc23d"/><path d="M15 0.5h34a14.5 14.5 0 0 1 14.5 14.5v34a14.5 14.5 0 0 1 -14.5 14.5h-34a14.5 14.5 0 0 1 -14.5 -14.5v-34a14.5 14.5 0 0 1 14.5 -14.5z" fill="none" stroke="#ffffff" stroke-opacity="0.14" stroke-width="1" stroke-linecap="butt" stroke-linejoin="miter"/></svg></button>
-<span style="position:absolute;bottom:-9px;height:4px;border-radius:2px;width:5px;background:rgba(20,24,39,0.6)"></span>
+<span style="position:absolute;bottom:-8px;height:4px;border-radius:2px;width:6px;background:rgba(20,24,39,0.6)"></span>
 </div>
 <div style="position:relative;display:flex;flex-direction:column;align-items:center">
 <button aria-label="Konsole" style="display:block;width:56px;height:56px;filter:drop-shadow(0 3px 6px rgba(0,0,0,0.35))"><svg xmlns="http://www.w3.org/2000/svg" width="56" height="56" viewBox="0 0 64 64"><path d="M15 0h34a15 15 0 0 1 15 15v34a15 15 0 0 1 -15 15h-34a15 15 0 0 1 -15 -15v-34a15 15 0 0 1 15 -15z" fill="#131726"/><path d="M15 0h34a15 15 0 0 1 15 15v30a15 15 0 0 1 -15 15h-34a15 15 0 0 1 -15 -15v-30a15 15 0 0 1 15 -15z" fill="#262c42"/><path d="M15 0h34a15 15 0 0 1 15 15v13H0V15A15 15 0 0 1 15 0z" fill="#ffffff" fill-opacity="0.09"/><path d="M32 38h10a2 2 0 0 1 2 2v0a2 2 0 0 1 -2 2h-10a2 2 0 0 1 -2 -2v0a2 2 0 0 1 2 -2z" fill="#e8ebf4"/><path fill-rule="evenodd" d="M15 13a2 2 0 1 0 4 0a2 2 0 1 0 -4 0zM21 13a2 2 0 1 0 4 0a2 2 0 1 0 -4 0zM27 13a2 2 0 1 0 4 0a2 2 0 1 0 -4 0z" fill="#5d6680"/><path d="M18 25l8 7-8 7" fill="none" stroke="#3cc4b0" stroke-width="4" stroke-linecap="round" stroke-linejoin="round"/><path d="M15 0.5h34a14.5 14.5 0 0 1 14.5 14.5v34a14.5 14.5 0 0 1 -14.5 14.5h-34a14.5 14.5 0 0 1 -14.5 -14.5v-34a14.5 14.5 0 0 1 14.5 -14.5z" fill="none" stroke="#ffffff" stroke-opacity="0.14" stroke-width="1" stroke-linecap="butt" stroke-linejoin="miter"/></svg></button>
@@ -202,9 +203,9 @@ a{color:#2f6fdf}a:hover{color:#2359c4}
 </div>
 <div style="position:relative;display:flex;flex-direction:column;align-items:center">
 <button aria-label="System Settings" style="display:block;width:56px;height:56px;filter:drop-shadow(0 3px 6px rgba(0,0,0,0.35))"><svg xmlns="http://www.w3.org/2000/svg" width="56" height="56" viewBox="0 0 64 64"><path d="M15 0h34a15 15 0 0 1 15 15v34a15 15 0 0 1 -15 15h-34a15 15 0 0 1 -15 -15v-34a15 15 0 0 1 15 -15z" fill="#262b38"/><path d="M15 0h34a15 15 0 0 1 15 15v30a15 15 0 0 1 -15 15h-34a15 15 0 0 1 -15 -15v-30a15 15 0 0 1 15 -15z" fill="#3b4255"/><path d="M15 0h34a15 15 0 0 1 15 15v13H0V15A15 15 0 0 1 15 0z" fill="#ffffff" fill-opacity="0.09"/><path d="M15.25 20h33.5a2.25 2.25 0 0 1 2.25 2.25v0a2.25 2.25 0 0 1 -2.25 2.25h-33.5a2.25 2.25 0 0 1 -2.25 -2.25v0a2.25 2.25 0 0 1 2.25 -2.25zM15.25 35h33.5a2.25 2.25 0 0 1 2.25 2.25v0a2.25 2.25 0 0 1 -2.25 2.25h-33.5a2.25 2.25 0 0 1 -2.25 -2.25v0a2.25 2.25 0 0 1 2.25 -2.25z" fill="#6b7490"/><path fill-rule="evenodd" d="M15.25 20h19.5a2.25 2.25 0 0 1 2.25 2.25v0a2.25 2.25 0 0 1 -2.25 2.25h-19.5a2.25 2.25 0 0 1 -2.25 -2.25v0a2.25 2.25 0 0 1 2.25 -2.25zM15.25 35h6.5a2.25 2.25 0 0 1 2.25 2.25v0a2.25 2.25 0 0 1 -2.25 2.25h-6.5a2.25 2.25 0 0 1 -2.25 -2.25v0a2.25 2.25 0 0 1 2.25 -2.25z" fill="#5b9dff"/><path fill-rule="evenodd" d="M31.5 22.25a5.5 5.5 0 1 0 11 0a5.5 5.5 0 1 0 -11 0zM18.5 37.25a5.5 5.5 0 1 0 11 0a5.5 5.5 0 1 0 -11 0z" fill="#ffffff"/><path d="M15 0.5h34a14.5 14.5 0 0 1 14.5 14.5v34a14.5 14.5 0 0 1 -14.5 14.5h-34a14.5 14.5 0 0 1 -14.5 -14.5v-34a14.5 14.5 0 0 1 14.5 -14.5z" fill="none" stroke="#ffffff" stroke-opacity="0.14" stroke-width="1" stroke-linecap="butt" stroke-linejoin="miter"/></svg></button>
-<span style="position:absolute;bottom:-9px;height:4px;border-radius:2px;width:16px;background:#2f6fdf"></span>
+<span style="position:absolute;bottom:-8px;height:4px;border-radius:2px;width:6px;background:rgba(20,24,39,0.6)"></span>
 </div>
-<span style="width:1px;height:36px;margin:0 4px 6px;background:rgba(20,24,39,0.16)"></span>
+<span style="width:1px;height:40px;margin:0 6px 6px;background:rgba(20,24,39,0.16)"></span>
 <button aria-label="Downloads" style="width:56px;height:56px;border-radius:15px;background:rgba(20,24,39,0.08);color:#28304a;display:flex;align-items:center;justify-content:center"><svg class="i" width="28" height="28" viewBox="0 0 24 24"><path d="M12 4v11M7 10l5 5 5-5M5 20h14"></path></svg></button>
 <button aria-label="Trash" style="width:56px;height:56px;border-radius:15px;background:rgba(20,24,39,0.08);color:#28304a;display:flex;align-items:center;justify-content:center"><svg class="i" width="28" height="28" viewBox="0 0 24 24"><path d="M4 7h16M9 7V4h6v3M6 7l1 13h10l1-13M10 11v5M14 11v5"></path></svg></button>
 </nav>
